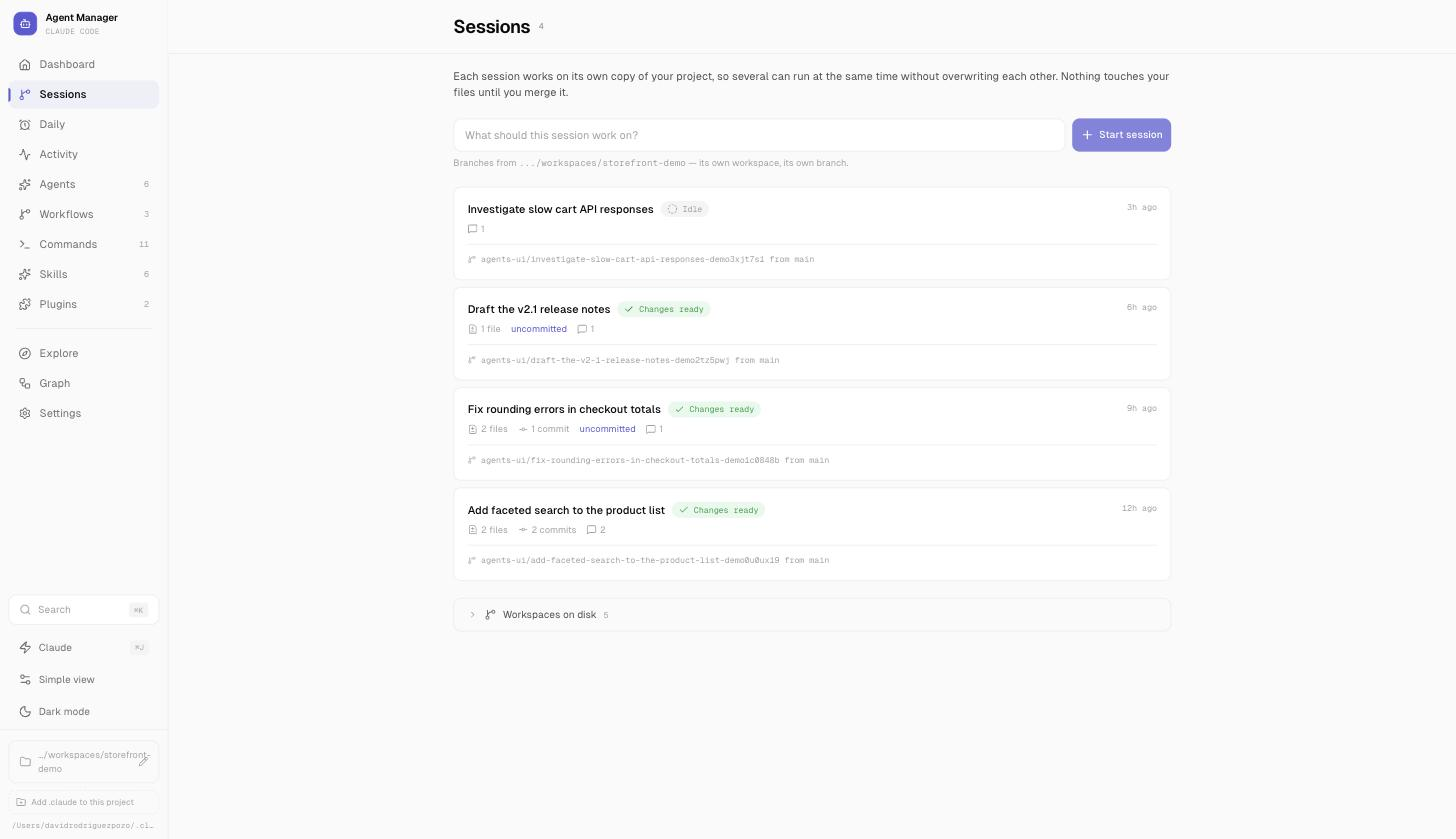
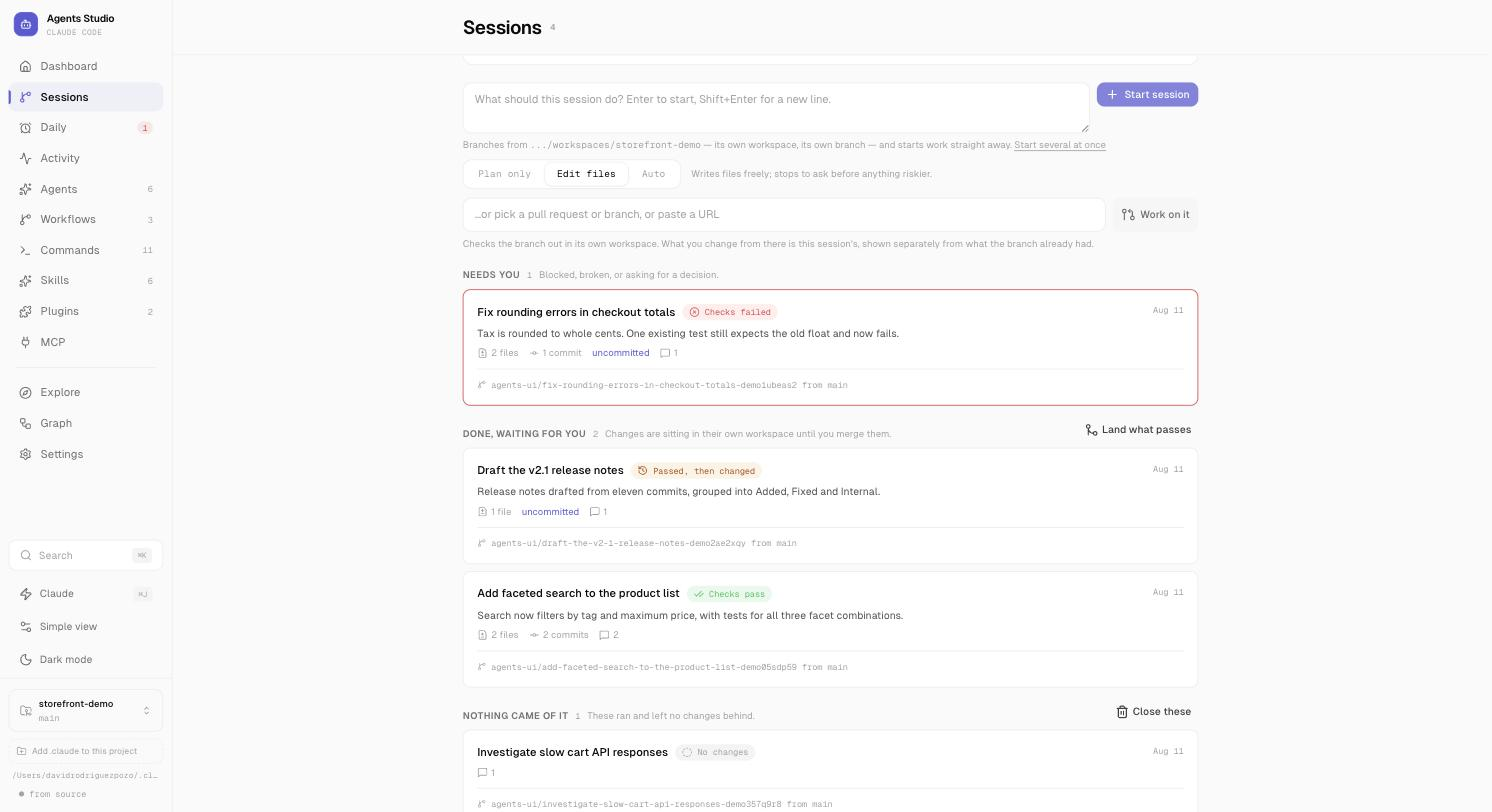
typo

diff --git a/app/pages/runs/[id].vue b/app/pages/runs/[id].vue
@@ -331,8 +331,18 @@ function formatCost(usd?: number) {
               so whatever needed that did not happen.
             </p>
             <p v-else class="text-[11px] leading-relaxed text-label">
-              <template v-if="meta.scheduleId">It ran on a schedule, and</template>
-              <template v-else>It ran with nobody watching, and</template>
+              <!--
+                Each on its own line on purpose: with the text hugging the tags,
+                Vue's whitespace condensing drops the newline before <strong>
+                entirely and the banner reads "and Bash(gh issue edit:*)" with no
+                space at all.
+              -->
+              <template v-if="meta.scheduleId">
+                It ran on a schedule, and
+              </template>
+              <template v-else>
+                It ran with nobody watching, and
+              </template>
               <strong>{{ (meta.deniedTools || []).join(', ') || 'a tool' }}</strong>
               needed permission that nobody was there to give.
             </p>
